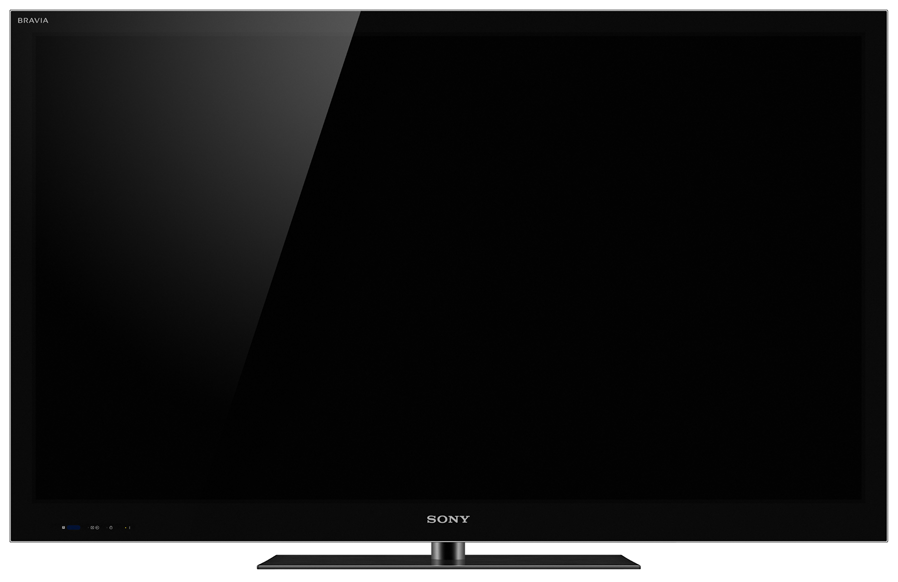
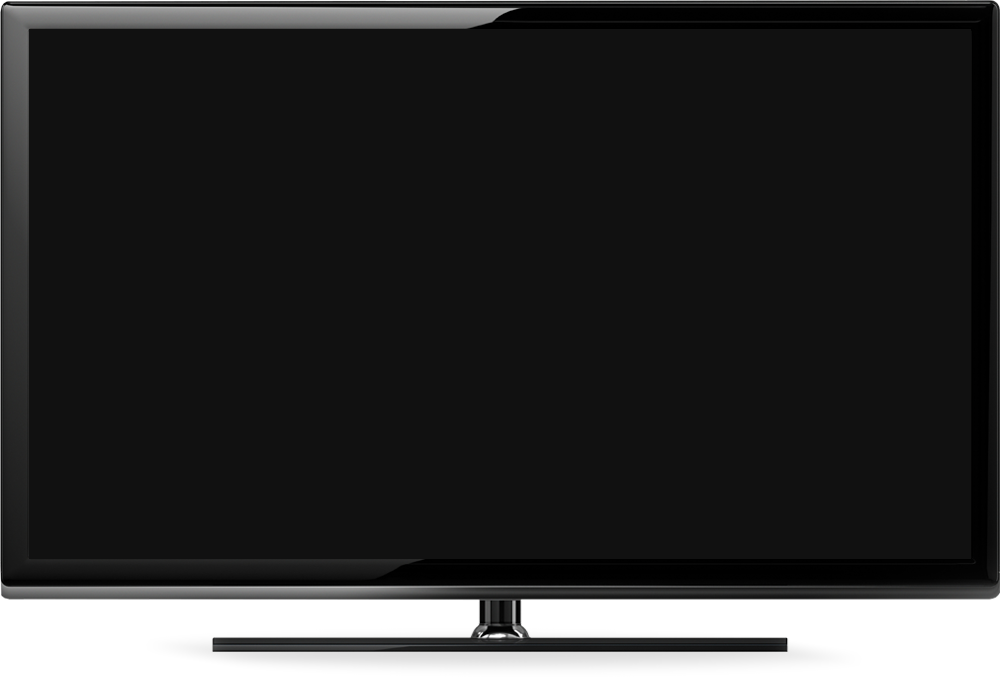
changed to a more transparent tv frame

Changed region(s): [[0.0, 0.0, 1.0, 0.9897]]

diff --git a/Laborations/Lab4_Mudhdhoo/css/default.css b/Laborations/Lab4_Mudhdhoo/css/default.css
@@ -105,10 +105,10 @@
     padding-top:15px;
     padding-left:15px;
     padding-right:15px;
-
     
 }
 .televisions{
     padding:15px;
+    background-color:cornflowerblue;
     border:2px solid black;
 }
